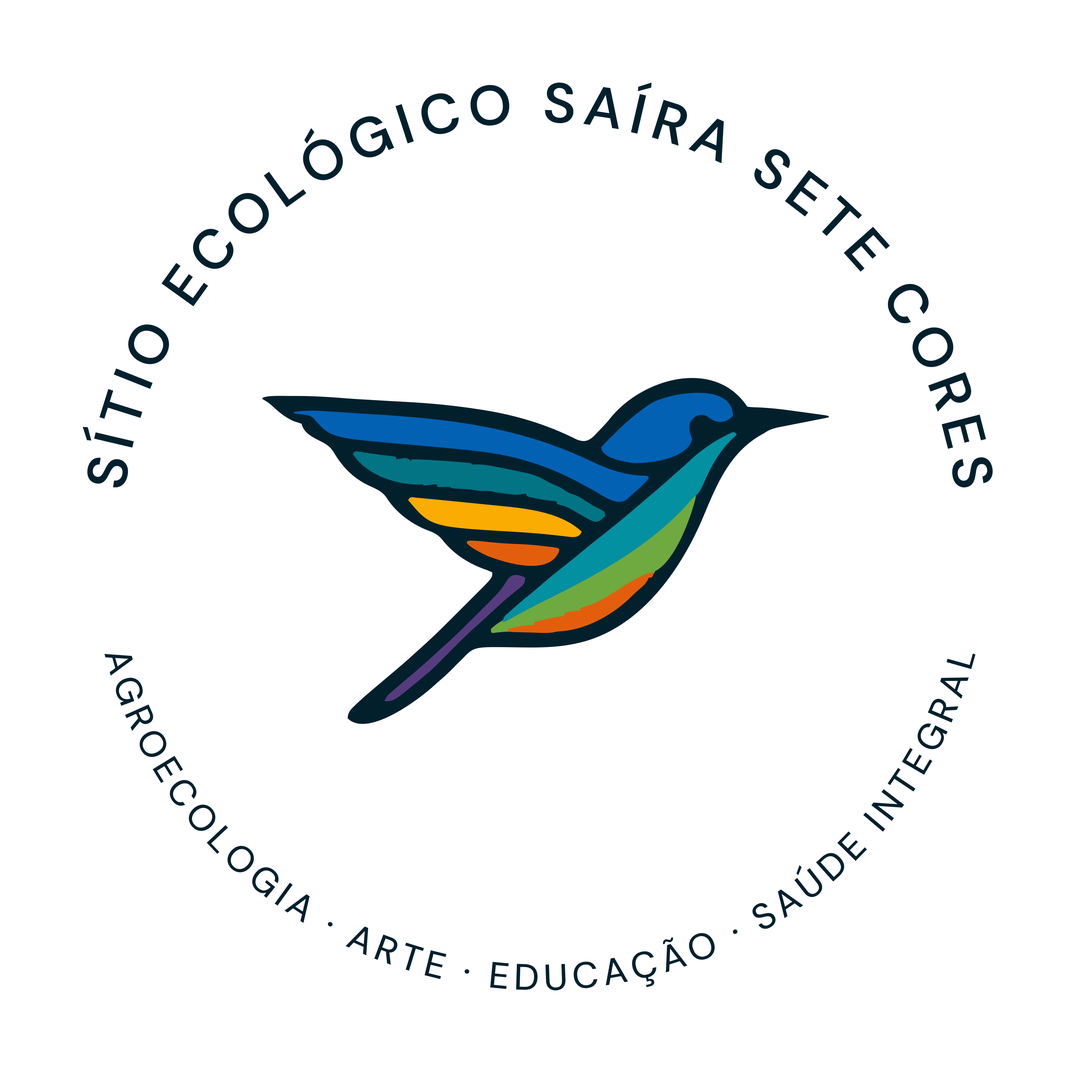
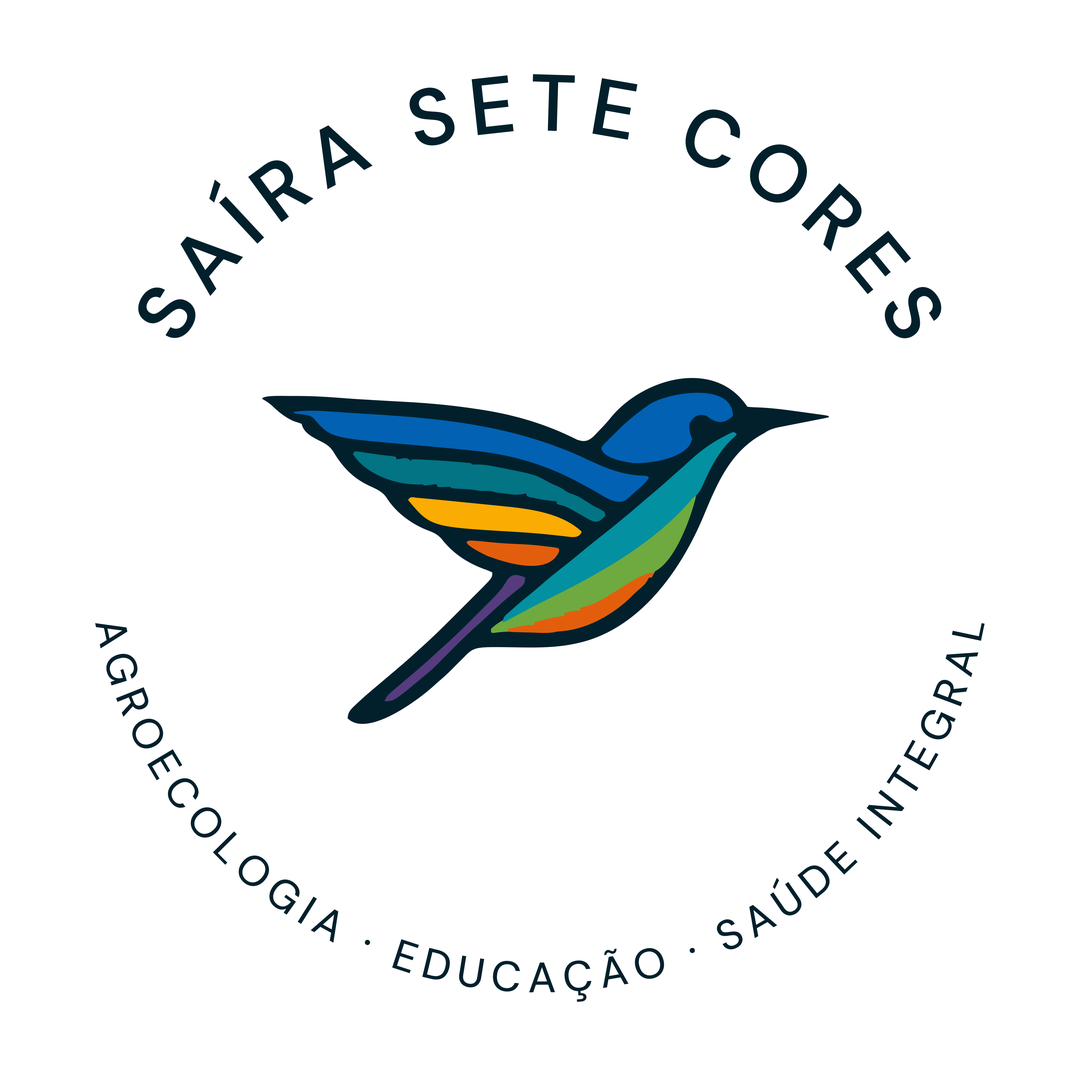
style(marca): selo só com "Saíra Sete Cores" em cima e sem "Arte" embaixo
Atualiza o selo no rodapé do site, no kit de marca e na foto de perfil circular.

Claude-Session: https://claude.ai/code/session_01X4S2BbYQyg8SsYUfKZy1tm

Changed region(s): [[0.0611, 0.0611, 0.9167, 0.4583], [0.3056, 0.5806, 0.9167, 0.9167], [0.0917, 0.5806, 0.3056, 0.8556]]

diff --git a/src/components/Footer.jsx b/src/components/Footer.jsx
@@ -38,7 +38,7 @@ export default function Footer() {
                   {sairaData.name}
                 </span>
                 <StripeTint onDark={theme !== 'light'} className="text-[11px] uppercase tracking-widest font-semibold block">
-                  Agroecologia · Arte · Educação · Saúde Integral
+                  Agroecologia · Educação · Saúde Integral
                 </StripeTint>
               </div>
             </div>

diff --git a/brand-kit/README.md b/brand-kit/README.md
@@ -18,7 +18,7 @@ Estes arquivos **não** fazem parte do site publicado (o site usa `public/brand/
 | `passaro-traco-areia.svg/.png` | Pássaro em traço claro — **sobre fotos** (modelo A) |
 | `passaro-traco-noite.svg/.png` | Pássaro em traço escuro — fundos claros |
 
-Texto do selo (provisório, aguardando a frase definitiva): "SÍTIO ECOLÓGICO SAÍRA SETE CORES" / "AGROECOLOGIA · ARTE · EDUCAÇÃO · SAÚDE INTEGRAL".
+Texto do selo (26/11/2026): em cima "SAÍRA SETE CORES" (maior, centralizado); embaixo "AGROECOLOGIA · EDUCAÇÃO · SAÚDE INTEGRAL".
 
 ## `instagram/`
 - `perfil-passaro-areia.png` — foto de perfil (pássaro sobre Areia; mais legível no círculo pequeno)
